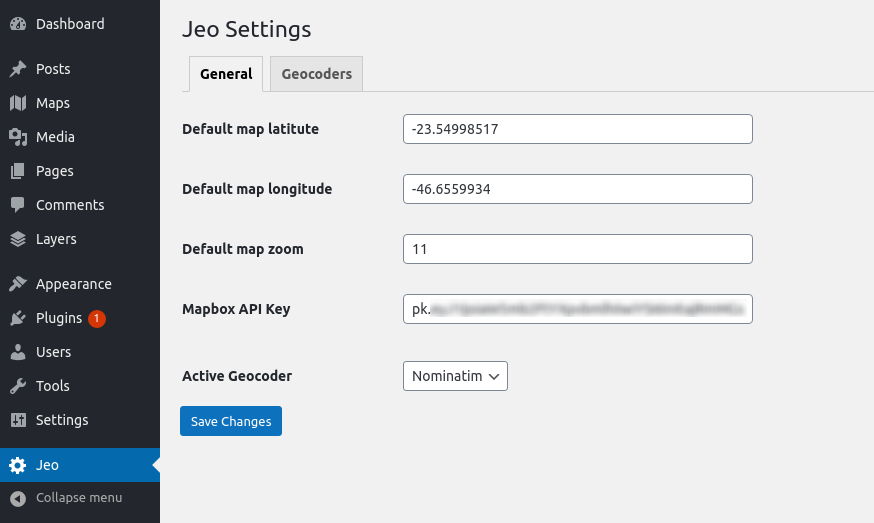
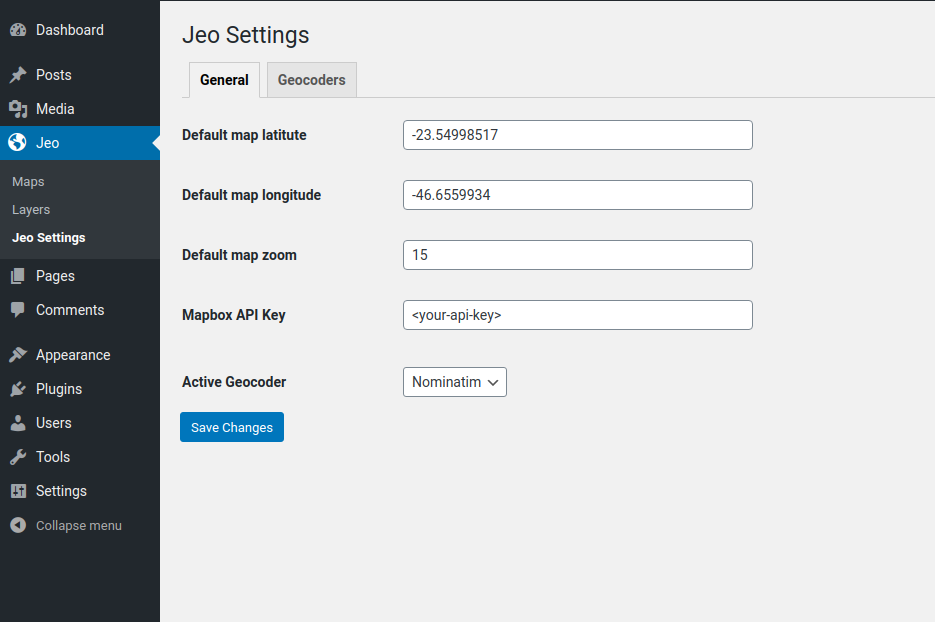
updates docs after changing main menu tree

diff --git a/docs/getting-started.md b/docs/getting-started.md
@@ -4,11 +4,11 @@
 
 The JEO plugin is currently pending approval to [WordPress Plugins](https://wordpress.org/plugins/) store.
 
-After activating the plugin, new items will appear on the WordPress dashboard: the **Maps** and **Layers** post types, and the JEO settings page.
+After activating the plugin, a new item will appear on the WordPress dashboard: a menu containing the **Maps** and **Layers** post types, and the JEO settings menus.
 
 ## Configuring the plugin
 
-At the JEO settings page, you can configure:
+Under JEO main menu, at Jeo Settings page, you can configure:
 
 * the default latitude, longitude, and zoom for your maps;
 * the [Mapbox API key](https://docs.mapbox.com/help/how-mapbox-works/access-tokens/) that'll be used by the plugin;
